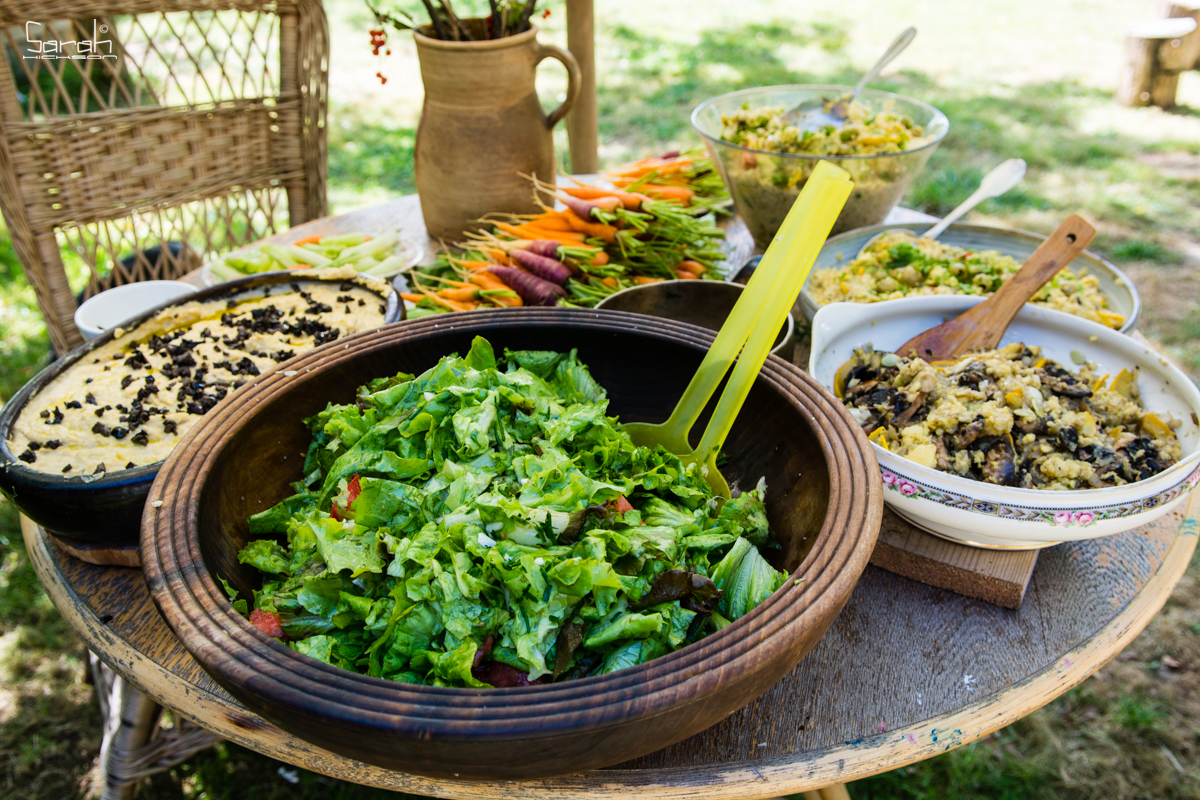
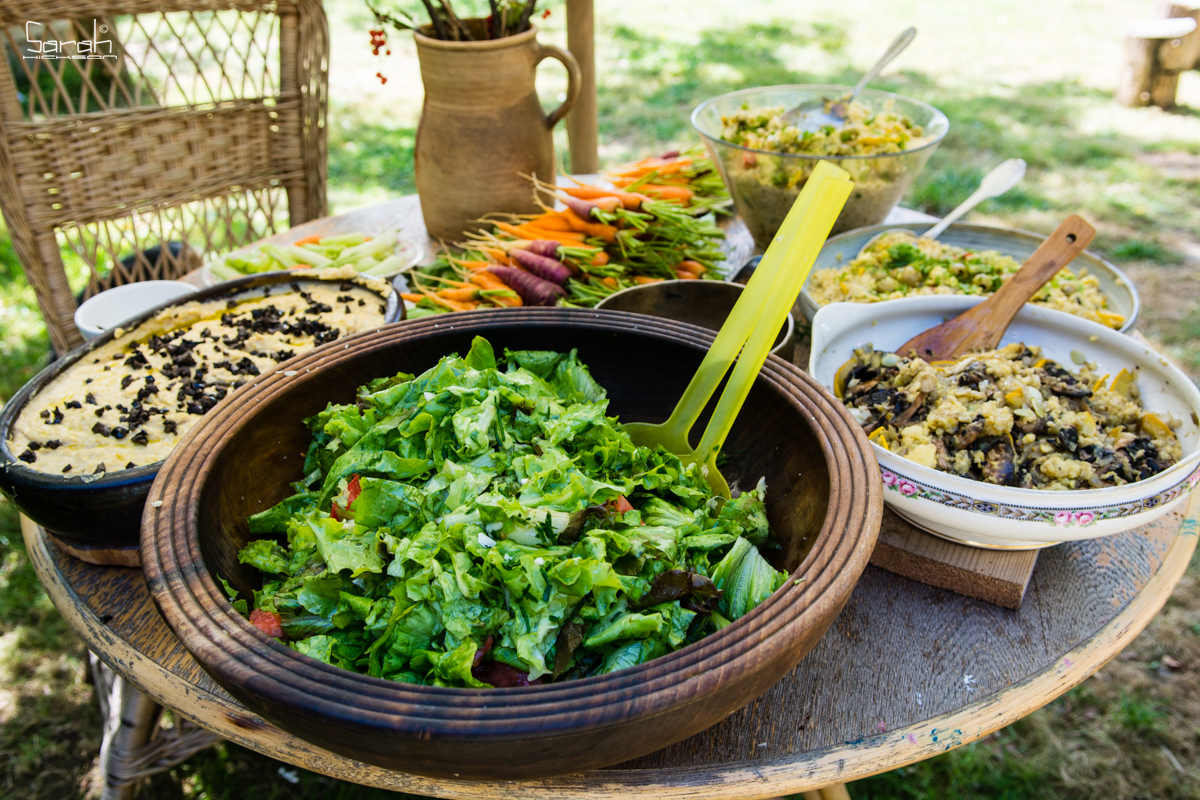
[images][m]: reduced image size in order to increase page loading time - refs #26

diff --git a/layouts/section/gathering.html b/layouts/section/gathering.html
@@ -58,8 +58,8 @@
     <p><a href="/la-cheraille/">More pictures and full details of how to get there ...</a></p>
     <iframe src="https://www.google.com/maps/embed?pb=!1m18!1m12!1m3!1d168429.23446498803!2d2.1464563156773004!3d48.73019408239067!2m3!1f0!2f0!3f0!3m2!1i1024!2i768!4f13.1!3m3!1m2!1s0x47e4245e8d738939%3A0x34b08f1a22c1cd5b!2sLa+Cheraille%2C+78120+Sonchamp%2C+France!5e0!3m2!1sen!2suk!4v1457889186272" style="border:0" allowfullscreen="" width="450" height="337" frameborder="0"></iframe>
 
-    <img src="/images/la_cheraille1_768x577.png">
-    <img src="/images/la_cheraille2_768x574.png">
+    <img src="/images/la_cheraille1_768x577.jpg">
+    <img src="/images/la_cheraille2_768x574.jpg">
 
   </section>
 

diff --git a/content/la-cheraille.md b/content/la-cheraille.md
@@ -8,7 +8,7 @@ We are based La Cheraille, a small farming hamlet near Paris. It is beautiful, n
 
 The community includes artists, technologists, farmers and researchers.
 
-<img src="/images/la_cheraille2_768x574.png">
+<img src="/images/la_cheraille2_768x574.jpg">
 
 ## Location
 
@@ -21,8 +21,8 @@ La Cheraille, 78120 Sonchamp, France.
 <iframe src="https://www.google.com/maps/embed?pb=!1m18!1m12!1m3!1d168429.23446498803!2d2.1464563156773004!3d48.73019408239067!2m3!1f0!2f0!3f0!3m2!1i1024!2i768!4f13.1!3m3!1m2!1s0x47e4245e8d738939%3A0x34b08f1a22c1cd5b!2sLa+Cheraille%2C+78120+Sonchamp%2C+France!5e0!3m2!1sen!2suk!4v1457889186272" style="border:0" allowfullscreen="" width="450" height="337" frameborder="0"></iframe>
 
 <img src="/images/DSC_8791_Sarah_Hickson_768x512.jpg">
-<img src="/images/la_cheraille1_768x577.png">
-<img src="/images/la_cheraille2_768x574.png">
+<img src="/images/la_cheraille1_768x577.jpg">
+<img src="/images/la_cheraille2_768x574.jpg">
 <img src="/images/DSC_8829_Sarah_Hickson1_768x512.jpg">
 <img src="/images/DSC_8796_Sarah_Hickson_768x512.jpg">
 <img src="/images/DSC_0070_Sarah_Hickson_768x512.jpg">
